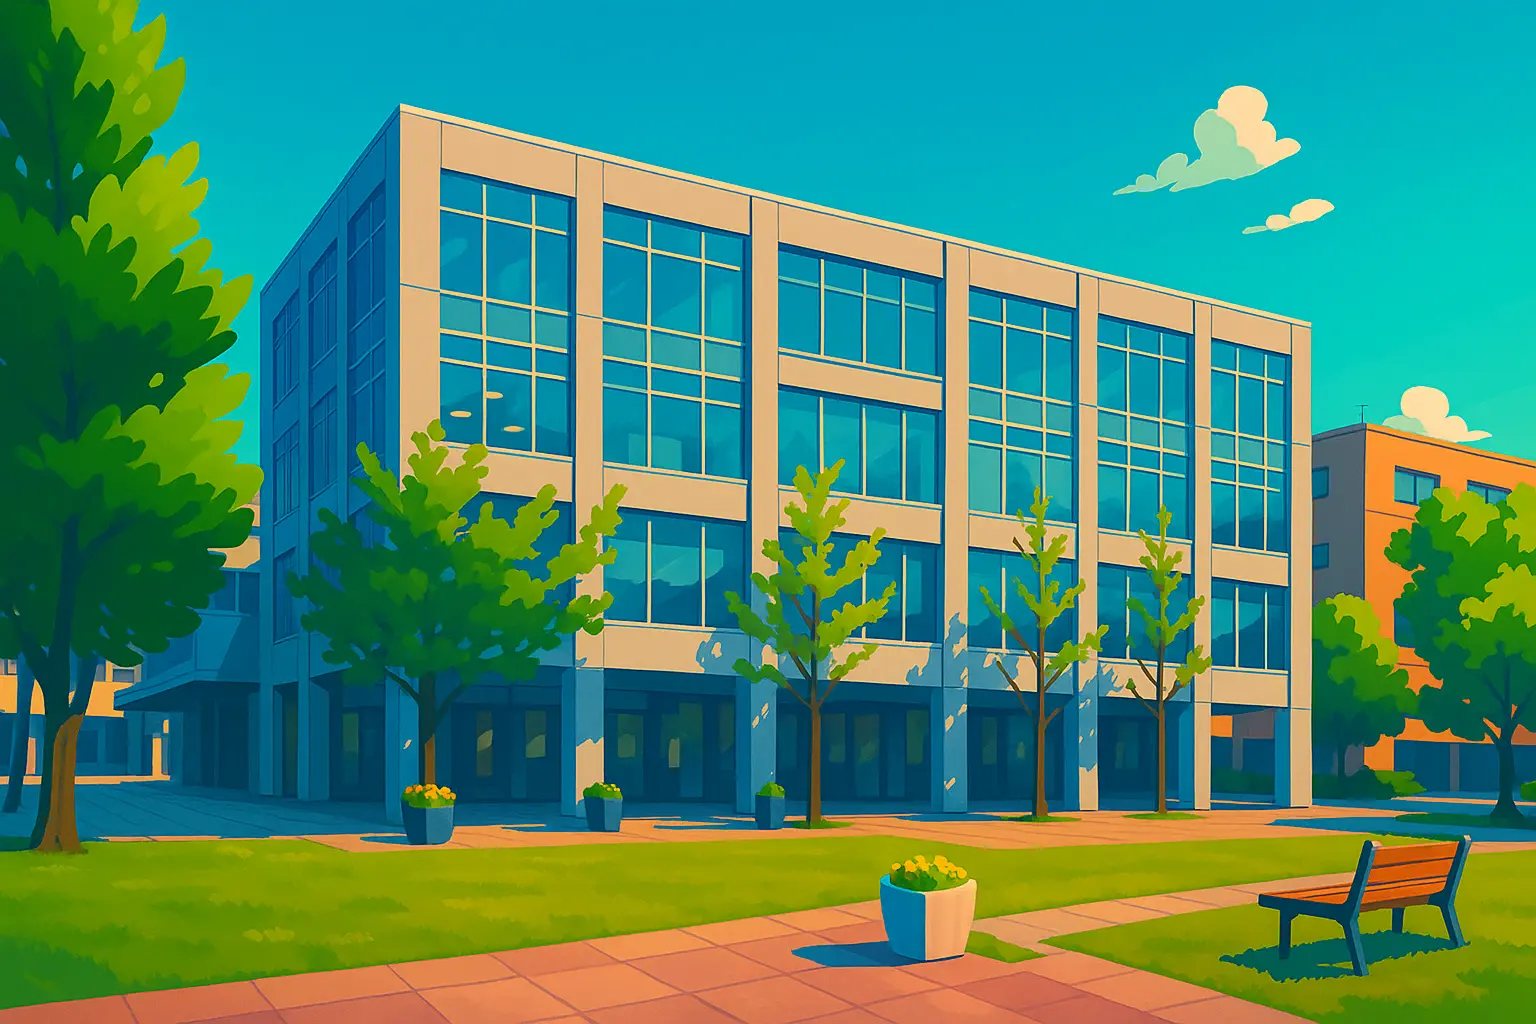
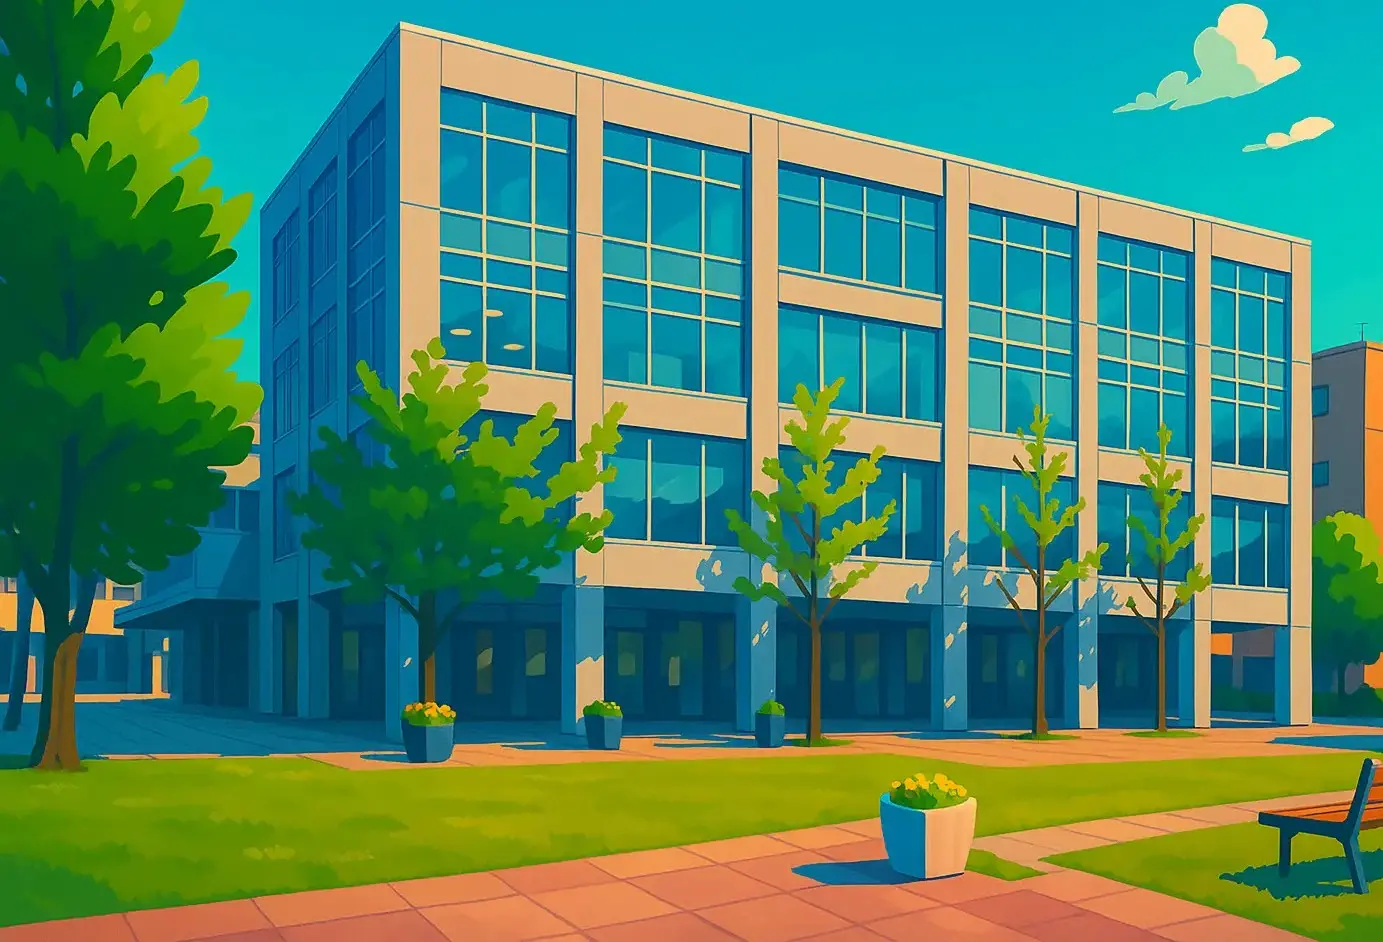
K2の画像変更

diff --git a/templates/event.html b/templates/event.html
@@ -22,7 +22,7 @@
       .hero-bg {
         position: absolute;
         inset: 0;
-        background: url('{{ url_for("static", filename="K4_ils.webp") }}') center/cover no-repeat fixed;
+        background: url('{{ url_for("static", filename="K2_ils.webp") }}') center/cover no-repeat fixed;
         z-index: 0;
       }
       .hero .inner {
